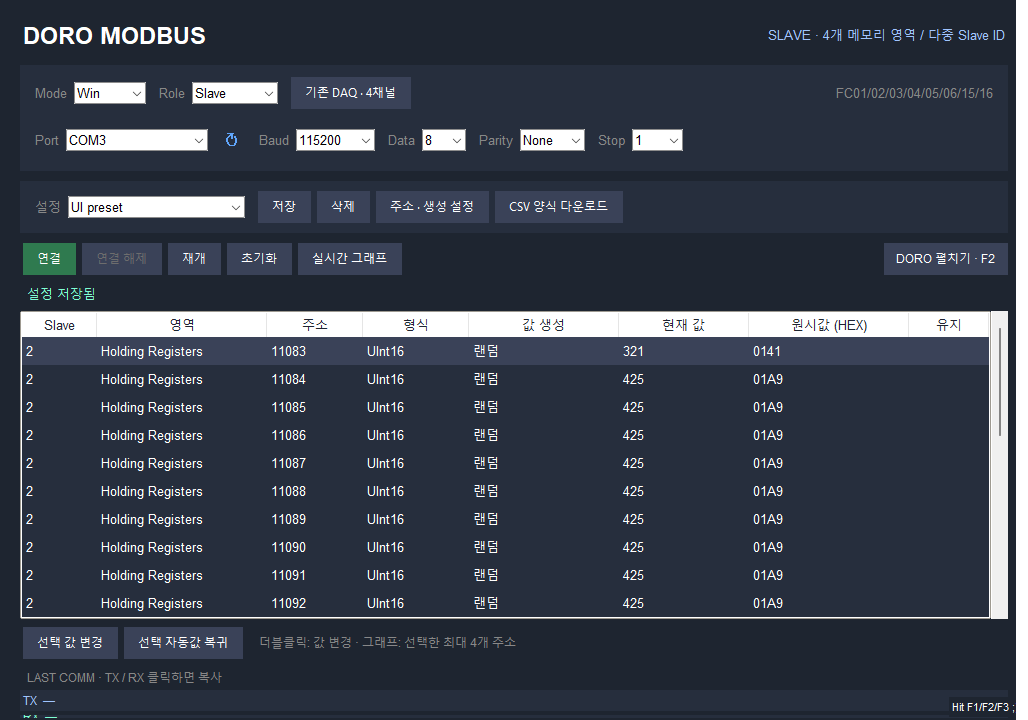
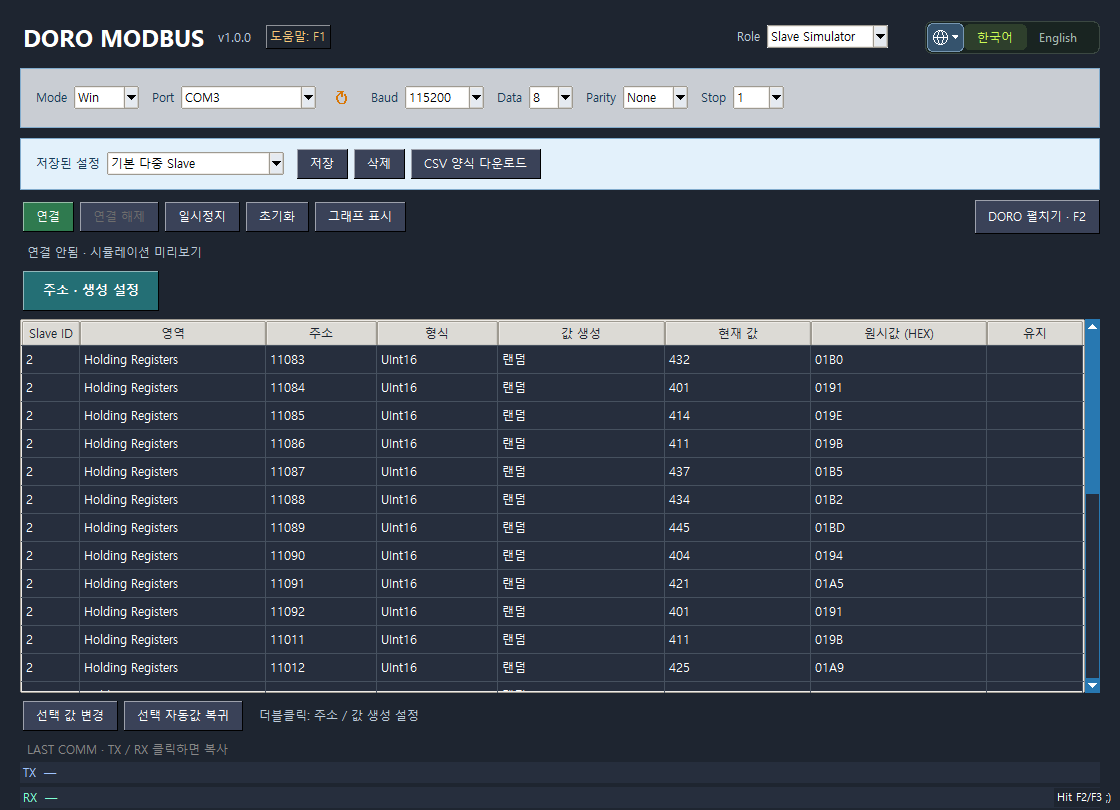
Refresh Doro Modbus 1.0.0 role walkthroughs and screenshots

diff --git a/_includes/doro-modbus-page.html b/_includes/doro-modbus-page.html
@@ -6,15 +6,15 @@
   <a class="doro-home" href="{{ site.data.ui[page.lang].home_url | relative_url }}" aria-label="Duki Lab"><span aria-hidden="true">←</span> DUKI LAB</a>
   {% include language-switch.html class="product-language" %}
 </header>
-<main id="main" class="market-peek-page doro-modbus-page" data-release-version="v{{ release.mac.version | default: release.version | escape }}">
+<main id="main" class="market-peek-page doro-modbus-page" data-release-version="v{{ release.version | escape }}">
   <section aria-labelledby="hero-title" class="hero wrap">
     <div class="hero-copy">
-      <p class="doro-eyebrow"><span aria-hidden="true">✦</span> MODBUS RTU · WINDOWS BETA</p>
+      <p class="doro-eyebrow"><span aria-hidden="true">✦</span> MODBUS RTU · WINDOWS · 1.0.0</p>
       <p class="product-brand"><img alt="" height="30" src="{{ '/assets/programs/doro-modbus/icon.png' | relative_url }}" width="30">Doro Modbus<span aria-hidden="true">.</span></p>
       <h1 id="hero-title">{{ copy.hero_title }}</h1>
       <p class="intro">{{ copy.intro }}</p>
       <div class="hero-downloads">
-        <a class="button" href="#download-windows"><svg aria-hidden="true" viewBox="0 0 20 20"><path d="M2 3l7-1v7H2zm9-1l7-1v8h-7zM2 11h7v7l-7-1zm9 0h7v8l-7-1z"></path></svg><span class="hero-download-text">{{ copy.windows_download | escape }}<small>({{ copy.beta | escape }})</small></span><span aria-hidden="true">↓</span></a>
+        <a class="button" href="#download-windows"><svg aria-hidden="true" viewBox="0 0 20 20"><path d="M2 3l7-1v7H2zm9-1l7-1v8h-7zM2 11h7v7l-7-1zm9 0h7v8l-7-1z"></path></svg><span class="hero-download-text">{{ copy.windows_download | escape }}<small>({{ copy.release_label | escape }})</small></span><span aria-hidden="true">↓</span></a>
 
       </div>
       <button class="tip-button" type="button" data-tip-open aria-haspopup="dialog" aria-controls="developer-tip-dialog">
@@ -61,6 +61,22 @@
     </div>
 
   </section>
+  <section class="wrap doro-roles" aria-labelledby="roles-title" id="roles">
+    <div class="section-heading"><p class="doro-eyebrow">ROLE SELECT · 1.0.0</p><h2 id="roles-title">{{ copy.screens_title | escape }}</h2><p>{{ copy.screens_intro | escape }}</p></div>
+    {% for role in copy.roles %}
+    <article class="doro-role" id="role-{{ role.id }}" aria-labelledby="role-{{ role.id }}-title">
+      <div class="doro-role-copy"><p class="doro-role-number">0{{ forloop.index }} / {{ role.name | escape }}</p><h3 id="role-{{ role.id }}-title">{{ role.title | escape }}</h3><p>{{ role.body | escape }}</p><ul>{% for point in role.points %}<li>{{ point | escape }}</li>{% endfor %}</ul></div>
+      <figure><a href="{{ '/assets/programs/doro-modbus/' | append: role.image | relative_url }}"><img src="{{ '/assets/programs/doro-modbus/' | append: role.image | relative_url }}" alt="{{ role.alt | escape }}" loading="lazy" width="1120" height="810"></a><figcaption>{{ role.name | escape }} · Doro Modbus 1.0.0</figcaption></figure>
+    </article>
+    {% endfor %}
+    <article class="doro-multiport" aria-labelledby="multiport-title">
+      <div class="section-heading"><p class="doro-eyebrow">MASTER · GRAPHS & TABLE</p><h3 id="multiport-title">{{ copy.multiport_title | escape }}</h3><p>{{ copy.multiport_body | escape }}</p></div>
+      <div class="doro-multiport-screens">
+        <figure><a href="{{ '/assets/programs/doro-modbus/table-popup.png' | relative_url }}"><img src="{{ '/assets/programs/doro-modbus/table-popup.png' | relative_url }}" alt="{{ copy.table_alt | escape }}" loading="lazy" width="1180" height="650"></a><figcaption>{{ copy.table_caption | escape }}</figcaption></figure>
+        <figure><a href="{{ '/assets/programs/doro-modbus/multiport-graph.png' | relative_url }}"><img src="{{ '/assets/programs/doro-modbus/multiport-graph.png' | relative_url }}" alt="{{ copy.graph_alt | escape }}" loading="lazy" width="1050" height="650"></a><figcaption>{{ copy.graph_caption | escape }}</figcaption></figure>
+      </div>
+    </article>
+  </section>
   <section aria-labelledby="download-title" class="download-section wrap" id="download">
     <div class="download-copy">
       <h2 id="download-title">{{ copy.download_title }}</h2>
@@ -68,7 +84,7 @@
     </div>
     <div class="download-options doro-download-options">
       <div class="download-panel" id="download-windows">
-        <div class="release-heading"><strong>{{ copy.windows_platform | escape }}</strong><span id="windows-release-version">v{{ release.version | escape }} {% if language == 'ja' %}ベータ版{% else %}Beta{% endif %}</span></div>
+        <div class="release-heading"><strong>{{ copy.windows_platform | escape }}</strong><span id="windows-release-version">v{{ release.version | escape }}</span></div>
         <p class="platform-label">Windows · x64</p>
         {% if release.published %}
         <a class="button download-button" href="{{ release.installer.url | escape }}" id="download-link">{{ copy.installer_download | escape }} <span aria-hidden="true">↓</span></a>
@@ -78,22 +94,16 @@
         <p class="download-file">{{ release.archive.size | divided_by: 1000000.0 | round: 1 }} MB · {{ copy.archive_detail | escape }}</p>
         {% endif %}
         <div class="release-links">
-          <a class="release-notes" id="windows-release-notes" href="{{ release.release_url | escape }}">v{{ release.version | escape }} {% if language == 'ja' %}ベータ版{% else %}Beta{% endif %} {{ copy.release_notes | escape }} <span aria-hidden="true">↗</span></a>
+          <a class="release-notes" id="windows-release-notes" href="{{ release.release_url | escape }}">v{{ release.version | escape }} {{ copy.release_notes | escape }} <span aria-hidden="true">↗</span></a>
           <a class="release-notes" href="{{ release.releases_url | escape }}">{{ copy.version_downloads | escape }} <span aria-hidden="true">↗</span></a>
         </div>
         {% else %}
         <p class="download-pending" role="status">{{ copy.windows_pending | escape }}</p>
         <p class="download-file">{{ copy.windows_pending_detail | escape }}</p>
+        <a class="release-notes" href="{{ release.releases_url | escape }}">{{ copy.version_downloads | escape }} <span aria-hidden="true">↗</span></a>
         {% endif %}
       </div>
 
-    </div>
-  </section>
-  <section class="wrap doro-gallery" aria-label="{{ site.data.ui[page.lang].screenshots | escape }}">
-    <div class="section-heading"><p class="doro-eyebrow">{{ site.data.ui[page.lang].world_builder | escape }}</p><h2>{{ copy.screens_title | escape }}</h2><p>{{ copy.screens_intro | escape }}</p></div>
-    <div class="doro-screens">
-    <figure><img src="{{ '/assets/programs/doro-modbus/slave.png' | relative_url }}" alt="Doro Modbus Slave" loading="lazy"><figcaption>{{ site.data.ui[page.lang].slave_caption | escape }}</figcaption></figure>
-    <figure><img src="{{ '/assets/programs/doro-modbus/editor.png' | relative_url }}" alt="{{ site.data.ui[page.lang].editor_alt | escape }}" loading="lazy"><figcaption>{{ site.data.ui[page.lang].editor_caption | escape }}</figcaption></figure>
     </div>
   </section>
   <section aria-labelledby="install-title" class="install wrap" id="install">

diff --git a/assets/css/doro-modbus.css b/assets/css/doro-modbus.css
@@ -92,3 +92,22 @@ html[lang=en] .doro-modbus-page h1{font-size:clamp(36px,3.4vw,51px)}
 @media(max-width:760px){.doro-modbus-page .hero{grid-template-columns:1fr;gap:48px;padding-top:22px}.doro-showcase{max-width:600px;width:100%;margin:auto}.doro-modbus-page .feature-grid{grid-template-columns:1fr 1fr}.doro-screens{grid-template-columns:1fr}.doro-modbus-page h2{font-size:27px}.doro-modbus-page .download-copy h2{font-size:30px}.doro-home{font-size:8px}.doro-modbus-page .install-steps{grid-template-columns:1fr}.doro-showcase:before{top:-32px;font-size:21px}}
 @media(max-width:480px){.wrap{padding-left:22px;padding-right:22px}.product-topbar{gap:8px}.doro-home{letter-spacing:0;font-size:7px;gap:5px}.product-language{font-size:11px;padding-left:9px}.product-language a{padding:7px 9px}.product-language__globe{width:15px;height:15px;margin-right:0}.doro-modbus-page .feature-grid{grid-template-columns:1fr}.doro-promo-lines{font-size:11px}.doro-modbus-page .download-section{margin-left:14px;margin-right:14px;padding:28px 20px}.doro-gallery{padding-top:65px}.doro-screen-bottom{font-size:11px}.doro-modbus-page .features{padding-top:36px}.doro-preview{padding:11px}.doro-map-controls button{padding:5px 8px}.doro-preview-heading{font-size:9px}.doro-eyebrow{font-size:9px}}
 @media(prefers-reduced-motion:reduce){.button{transition:none;transform:none}.button:hover{transform:none}}
+
+/* Role walkthroughs use current screenshots; the animated Doro intro stays intact. */
+.doro-roles{padding-top:12px;padding-bottom:64px}
+.doro-role{display:grid;grid-template-columns:minmax(0,.85fr) minmax(0,1.45fr);align-items:center;gap:40px;padding:48px 0;border-bottom:1px dashed #594464}
+.doro-role:nth-of-type(even){grid-template-columns:minmax(0,1.45fr) minmax(0,.85fr)}
+.doro-role:nth-of-type(even) .doro-role-copy{order:2}
+.doro-role-number{color:#bbdf9c;font-size:12px;letter-spacing:.04em}
+.doro-role-copy h3,.doro-multiport h3{font-size:25px;line-height:1.65;word-break:keep-all;margin:14px 0}
+.doro-role-copy>p:not(.doro-role-number),.doro-role-copy li{color:var(--muted);font-size:14px;line-height:1.95}
+.doro-role-copy ul{padding-left:19px;display:grid;gap:9px;margin-top:22px}
+.doro-role-copy li::marker{color:#d5a1c5}
+.doro-role figure,.doro-multiport figure{margin:0;min-width:0;padding:9px;border:1px solid #695576;border-radius:8px;background:#211c2b}
+.doro-role img,.doro-multiport img{display:block;width:100%;height:auto;border:1px solid #51445e}
+.doro-role figcaption,.doro-multiport figcaption{font-size:11px;line-height:1.8;color:#b5a5c1;padding:12px 3px 3px}
+.doro-role a:focus-visible,.doro-multiport a:focus-visible{outline:2px solid #e9b9d6;outline-offset:4px}
+.doro-multiport{margin-top:48px;padding:28px;border:1px solid #594464;border-radius:10px;background:#1e1a27}
+.doro-multiport .section-heading{max-width:830px}
+.doro-multiport-screens{display:grid;grid-template-columns:1fr 1fr;gap:22px;align-items:start;margin-top:26px}
+@media(max-width:760px){.doro-role,.doro-role:nth-of-type(even){grid-template-columns:1fr;gap:20px;padding:34px 0}.doro-role:nth-of-type(even) .doro-role-copy{order:0}.doro-role-copy h3,.doro-multiport h3{font-size:23px}.doro-multiport{padding:18px}.doro-multiport-screens{grid-template-columns:1fr}.doro-roles{padding-bottom:40px}}

diff --git a/assets/js/doro-modbus-releases.js b/assets/js/doro-modbus-releases.js
@@ -17,7 +17,7 @@
       releases.push(...batch);
       if (batch.length < 100) break;
     }
-    const release = releases.filter(r => !r.draft && /^v\d+\.\d+\.\d+$/.test(r.tag_name) &&
+    const release = releases.filter(r => !r.draft && !r.prerelease && /^v\d+\.\d+\.\d+$/.test(r.tag_name) &&
       r.assets?.some(a => a.name === `Doro.Modbus.${r.tag_name.slice(1)}.exe`)).sort(compare)[0];
     if (!release) return;
     const root = document.querySelector('[data-release-version]');
@@ -30,10 +30,10 @@
     const link = document.getElementById('download-link');
     if (!link) return;
     link.href = asset.browser_download_url;
-    document.getElementById('windows-release-version').textContent = `${release.tag_name} ${japanese ? 'ベータ版' : 'Beta'}`;
+    document.getElementById('windows-release-version').textContent = release.tag_name;
     const notes = document.getElementById('windows-release-notes');
     notes.href = `https://github.com/${repository}/releases/tag/${release.tag_name}`;
-    notes.textContent = `${release.tag_name} ${japanese ? 'ベータ版' : 'Beta'} ${japanese ? 'リリースノート ↗' : english ? 'release notes ↗' : '릴리스 정보 ↗'}`;
+    notes.textContent = `${release.tag_name} ${japanese ? 'リリースノート ↗' : english ? 'release notes ↗' : '릴리스 정보 ↗'}`;
     const details = document.querySelector('#download-windows .download-file');
     if (details && Number.isSafeInteger(asset.size)) details.textContent = `${(asset.size / 1000000).toFixed(1)} MB · ${japanese ? 'インストール不要 · Python不要' : english ? 'Portable executable · No Python required' : '설치 없이 실행 · Python 설치 불필요'}`;
     if (root) root.dataset.releaseVersion = release.tag_name;
